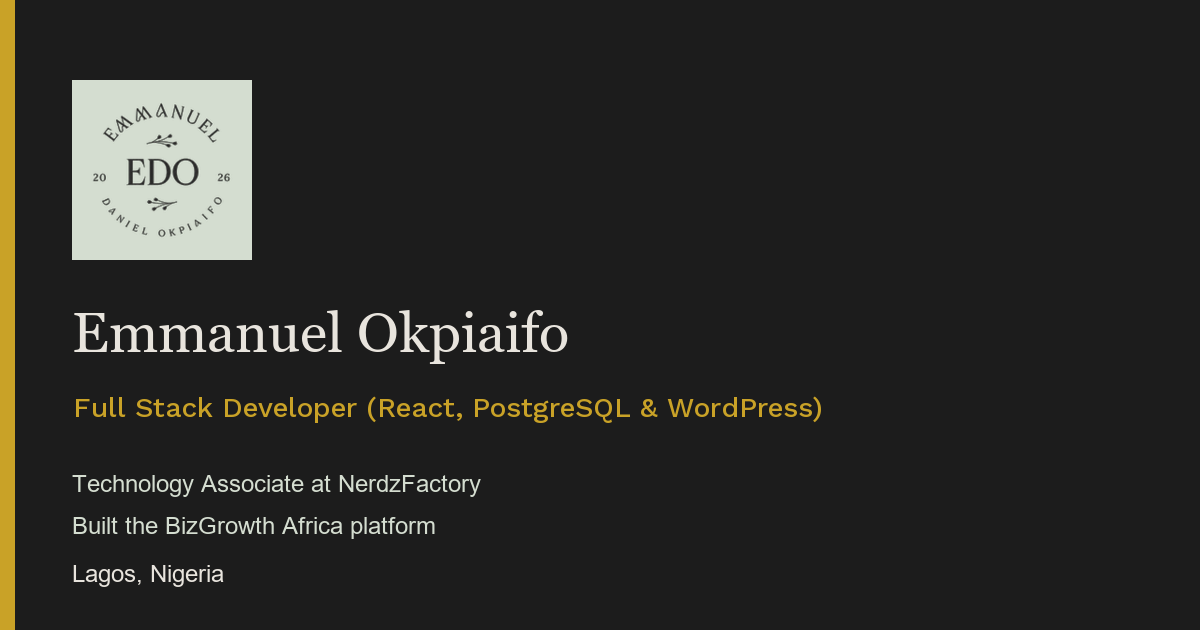
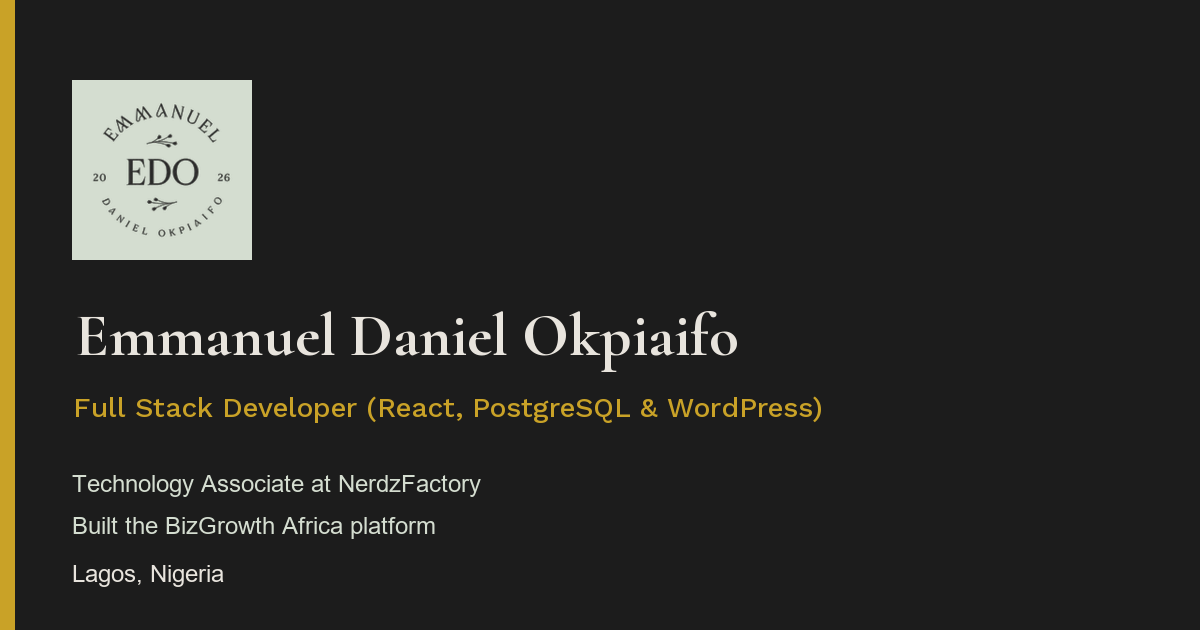
Update Emmanuel Okpiaifo to Emmanuel Daniel Okpiaifo

Changed region(s): [[0.0617, 0.4825, 0.6167, 0.6032]]

diff --git a/index.html b/index.html
@@ -9,19 +9,19 @@
     <link rel="preconnect" href="https://fonts.googleapis.com" />
     <link rel="preconnect" href="https://fonts.gstatic.com" crossorigin />
     <link href="https://fonts.googleapis.com/css2?family=Cormorant+Garamond:ital,wght@0,500;0,600;0,700;1,500&family=Work+Sans:ital,wght@0,300..700;1,300..700&display=swap" rel="stylesheet" />
-    <title>Emmanuel Okpiaifo | Full Stack Developer, Lagos</title>
-    <meta name="description" content="Emmanuel Okpiaifo is a Full Stack Developer in Lagos building production React, PostgreSQL, and WordPress platforms. Technology Associate at NerdzFactory and builder of BizGrowth Africa." />
+    <title>Emmanuel Daniel Okpiaifo | Full Stack Developer, Lagos</title>
+    <meta name="description" content="Emmanuel Daniel Okpiaifo is a Full Stack Developer in Lagos building production React, PostgreSQL, and WordPress platforms. Technology Associate at NerdzFactory and builder of BizGrowth Africa." />
     <link rel="canonical" href="https://emmanuel-okpiaifo.netlify.app/" />
-    <meta property="og:title" content="Emmanuel Okpiaifo | Full Stack Developer, Lagos" />
-    <meta property="og:description" content="Emmanuel Okpiaifo is a Full Stack Developer in Lagos building production React, PostgreSQL, and WordPress platforms. Technology Associate at NerdzFactory and builder of BizGrowth Africa." />
+    <meta property="og:title" content="Emmanuel Daniel Okpiaifo | Full Stack Developer, Lagos" />
+    <meta property="og:description" content="Emmanuel Daniel Okpiaifo is a Full Stack Developer in Lagos building production React, PostgreSQL, and WordPress platforms. Technology Associate at NerdzFactory and builder of BizGrowth Africa." />
     <meta property="og:url" content="https://emmanuel-okpiaifo.netlify.app/" />
     <meta property="og:type" content="website" />
     <meta property="og:image" content="https://emmanuel-okpiaifo.netlify.app/og-image.png" />
     <meta property="og:image:width" content="1200" />
     <meta property="og:image:height" content="630" />
     <meta name="twitter:card" content="summary_large_image" />
-    <meta name="twitter:title" content="Emmanuel Okpiaifo | Full Stack Developer, Lagos" />
-    <meta name="twitter:description" content="Emmanuel Okpiaifo is a Full Stack Developer in Lagos building production React, PostgreSQL, and WordPress platforms. Technology Associate at NerdzFactory and builder of BizGrowth Africa." />
+    <meta name="twitter:title" content="Emmanuel Daniel Okpiaifo | Full Stack Developer, Lagos" />
+    <meta name="twitter:description" content="Emmanuel Daniel Okpiaifo is a Full Stack Developer in Lagos building production React, PostgreSQL, and WordPress platforms. Technology Associate at NerdzFactory and builder of BizGrowth Africa." />
     <meta name="twitter:image" content="https://emmanuel-okpiaifo.netlify.app/og-image.png" />
   </head>
   <body>

diff --git a/netlify/edge-functions/leave-preview.js b/netlify/edge-functions/leave-preview.js
@@ -2,11 +2,11 @@ const PREVIEW = `<!DOCTYPE html>
 <html lang="en">
   <head>
     <meta charset="UTF-8" />
-    <title>Leave a testimonial | Emmanuel (Daniel) Okpiaifo</title>
-    <meta name="description" content="Share what you worked on with Emmanuel (Daniel) Okpiaifo and what made a difference. Notes are reviewed before they appear on the site." />
+    <title>Leave a testimonial | Emmanuel Daniel Okpiaifo</title>
+    <meta name="description" content="Share what you worked on with Emmanuel Daniel Okpiaifo and what made a difference. Notes are reviewed before they appear on the site." />
     <link rel="canonical" href="https://emmanuel-okpiaifo.netlify.app/leave-a-testimonial" />
-    <meta property="og:title" content="Leave a testimonial | Emmanuel (Daniel) Okpiaifo" />
-    <meta property="og:description" content="Share what you worked on with Emmanuel (Daniel) Okpiaifo and what made a difference. Notes are reviewed before they appear on the site." />
+    <meta property="og:title" content="Leave a testimonial | Emmanuel Daniel Okpiaifo" />
+    <meta property="og:description" content="Share what you worked on with Emmanuel Daniel Okpiaifo and what made a difference. Notes are reviewed before they appear on the site." />
     <meta property="og:url" content="https://emmanuel-okpiaifo.netlify.app/leave-a-testimonial" />
     <meta property="og:type" content="website" />
     <meta property="og:image" content="https://emmanuel-okpiaifo.netlify.app/og-image.png" />
@@ -14,7 +14,7 @@ const PREVIEW = `<!DOCTYPE html>
     <meta name="twitter:image" content="https://emmanuel-okpiaifo.netlify.app/og-image.png" />
   </head>
   <body>
-    <p>Share what you worked on with Emmanuel (Daniel) Okpiaifo and what made a difference.</p>
+    <p>Share what you worked on with Emmanuel Daniel Okpiaifo and what made a difference.</p>
   </body>
 </html>`;
 

diff --git a/src/data/profile.js b/src/data/profile.js
@@ -4,12 +4,12 @@
  */
 
 export const profile = {
-  name: "Emmanuel Okpiaifo",
+  name: "Emmanuel Daniel Okpiaifo",
   shortName: "EDO",
   brand: {
     monogram: "EDO",
-    title: "Emmanuel Okpiaifo",
-    displayName: "Emmanuel Okpiaifo",
+    title: "Emmanuel Daniel Okpiaifo",
+    displayName: "Emmanuel Daniel Okpiaifo",
   },
   tagline: "Full Stack Developer (React, PostgreSQL & WordPress) | Web Platform & Digital Product Builder",
   email: "emmaokpiaifo@gmail.com",
@@ -22,7 +22,7 @@ export const profile = {
 
   intro: {
     greeting: "Hello, I'm",
-    headline: "Emmanuel Okpiaifo",
+    headline: "Emmanuel Daniel Okpiaifo",
     bio: "I'm a Full Stack Developer in Lagos with 2+ years building production React applications, PostgreSQL-backed services, and WordPress platforms. At NerdzFactory I shipped BizGrowth Africa end to end, and I build for programmes with Google DeepMind, Meta, Mastercard Foundation, and others.",
     bioHighlightTerms: ["Full Stack Developer", "BizGrowth Africa"],
     ctaEmail: "emmaokpiaifo@gmail.com",

diff --git a/src/test/site.test.jsx b/src/test/site.test.jsx
@@ -38,7 +38,7 @@ describe("website", () => {
     expect(document.getElementById("main-content")).toBeTruthy();
 
     const hero = document.getElementById("introduction");
-    expect(await screen.findByRole("heading", { name: /Emmanuel Okpiaifo/ })).toBeInTheDocument();
+    expect(await screen.findByRole("heading", { name: /Emmanuel Daniel Okpiaifo/ })).toBeInTheDocument();
     expect(within(hero).getByRole("link", { name: /Download Resume/ })).toHaveAttribute("download", "Emmanuel_Okpiaifo_Resume_Full_Stack.pdf");
     expect(within(hero).getByRole("link", { name: "LinkedIn" })).toHaveAttribute("href", "https://www.linkedin.com/in/emmanuel-okpiaifo");
     expect(within(hero).getByRole("link", { name: "GitHub" })).toHaveAttribute("href", "https://github.com/Emmanuel-Okpiaifo");

diff --git a/src/components/common/navbar/NavBar.jsx b/src/components/common/navbar/NavBar.jsx
@@ -104,7 +104,7 @@ const NavBar = () => {
         >
           <Logo badge glow className="h-9 w-9 xs:h-10 xs:w-10 sm:h-11 sm:w-11 shrink-0" />
           <span className="flex flex-col min-w-0 leading-tight">
-            <span className="font-display text-sm xs:text-base sm:text-lg font-bold text-edo-gold tracking-wide">
+            <span className={`font-display text-sm xs:text-base sm:text-lg font-bold tracking-wide ${solidBar ? "text-edo-gold-ink" : "text-edo-gold"}`}>
               {profile.brand.monogram}
             </span>
             <span className="hidden lg:block max-w-[9rem] text-[11px] font-semibold leading-tight text-edo-charcoal">

diff --git a/src/components/contact/Form.jsx b/src/components/contact/Form.jsx
@@ -39,7 +39,7 @@ const Form = () => {
     <div className="w-full min-w-0 max-w-full">
       <p className="text-stone-600 text-sm sm:text-base leading-relaxed break-words">
         Fill out the form below. It will open your email app with a message addressed to{" "}
-        <a href={`mailto:${recipient}`} className="text-edo-gold font-medium hover:underline">
+        <a href={`mailto:${recipient}`} className="text-edo-gold-ink font-medium hover:underline">
           {recipient.slice(0, recipient.indexOf("@") + 1)}
           <wbr />
           {recipient.slice(recipient.indexOf("@") + 1)}

diff --git a/src/test/profile.test.js b/src/test/profile.test.js
@@ -5,7 +5,7 @@ const skillNames = profile.skills.categories.flatMap((category) => category.item
 
 describe("profile content", () => {
   it("identifies Emmanuel and the public contact details", () => {
-    expect(profile.name).toBe("Emmanuel Okpiaifo");
+    expect(profile.name).toBe("Emmanuel Daniel Okpiaifo");
     expect(profile.email).toBe("emmaokpiaifo@gmail.com");
     expect(profile.location).toBe("Lagos, Nigeria");
     expect(profile.whatsappUrl).toBe("https://wa.me/2349160852509");

diff --git a/src/components/skills/Skills.jsx b/src/components/skills/Skills.jsx
@@ -17,7 +17,7 @@ const SkillPill = ({ item }) => {
     <span
       className={`${shared} inline-flex w-fit flex-col items-start rounded-2xl @[20rem]:flex-row @[20rem]:items-center @[20rem]:rounded-full`}
     >
-      <span>{lead} / </span>
+      <span className="whitespace-pre">{lead} / </span>
       <span>{rest}</span>
     </span>
   );

diff --git a/src/components/common/logo/Logo.jsx b/src/components/common/logo/Logo.jsx
@@ -11,7 +11,7 @@ const Logo = ({
   badge = false,
   glow = false,
   className = "h-12 w-12 sm:h-14 sm:w-14",
-  alt = profile.brand?.displayName ?? "Emmanuel Okpiaifo",
+  alt = profile.brand?.displayName ?? "Emmanuel Daniel Okpiaifo",
   ...props
 }) => {
   const imgClass = badge
